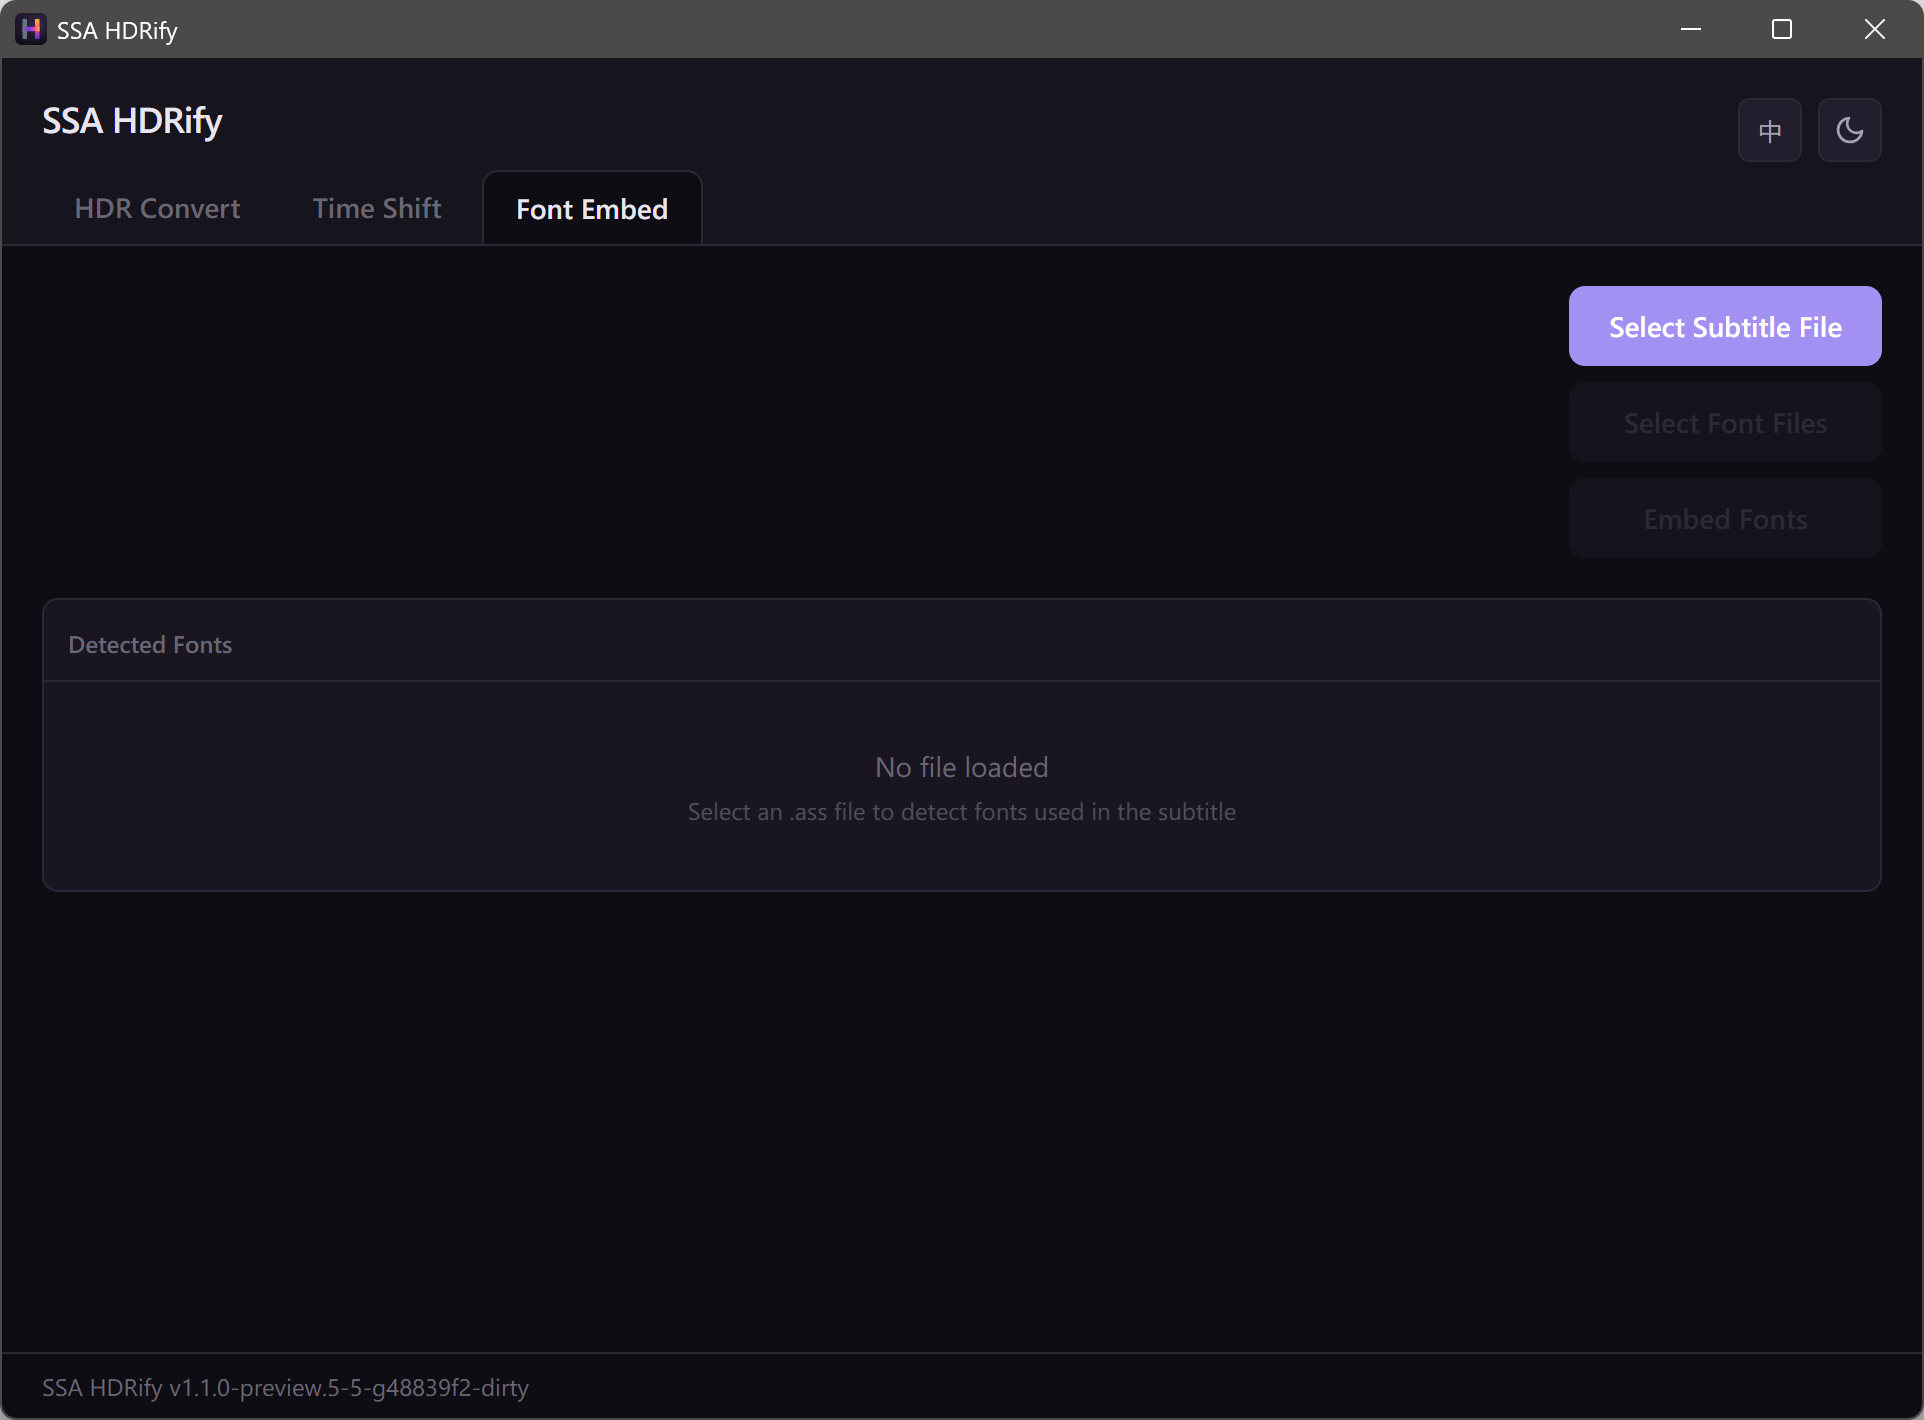
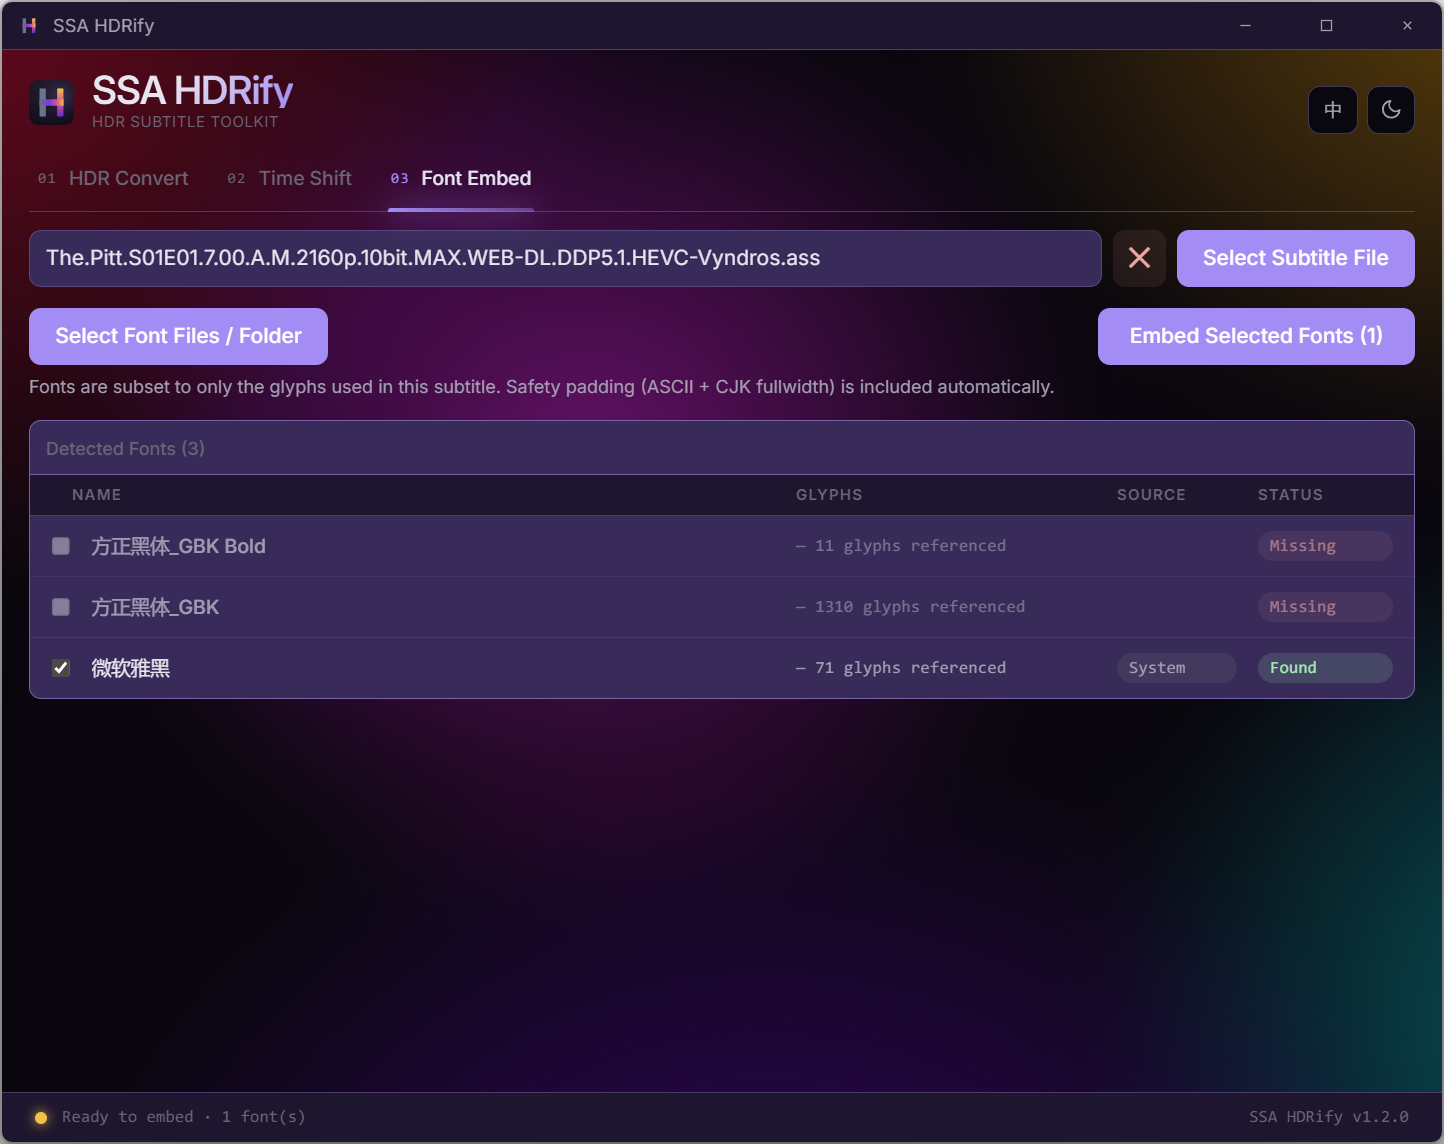
docs: 更新 v1.2.0 视觉改版截图 + 修正构建产物路径
- 全量替换 docs/screenshots/ 中的 6 张界面截图（三标签页 × 浅色中文 + 深色英文），展示 Cinematic Violet 视觉改版后的形象。
- README「Build from Source」小节将产物路径从 src-tauri/target/release/bundle/ 改为 src-tauri/target/release/ssahdrify.exe，与当前 bundle.active: false 一致；附带说明了如何临时启用 NSIS 打包。
- 同步因版本号写入而更新的 Cargo.lock。

diff --git a/README.md b/README.md
@@ -152,9 +152,9 @@ npm run tauri dev
 npm run tauri build
 ```
 
-产出在 `src-tauri/target/release/bundle/` 目录。
+便携式 exe 产出于 `src-tauri/target/release/ssahdrify.exe`，可直接运行。如需额外构建 NSIS 安装包，将 `src-tauri/tauri.conf.json` 中的 `bundle.active` 改为 `true` 后重新构建即可。
 
-Output is in the `src-tauri/target/release/bundle/` directory.
+The portable exe is produced at `src-tauri/target/release/ssahdrify.exe` — ready to run directly. If you additionally want the NSIS installer, flip `bundle.active` to `true` in `src-tauri/tauri.conf.json` and rebuild.
 
 ### 测试 | Testing
 
